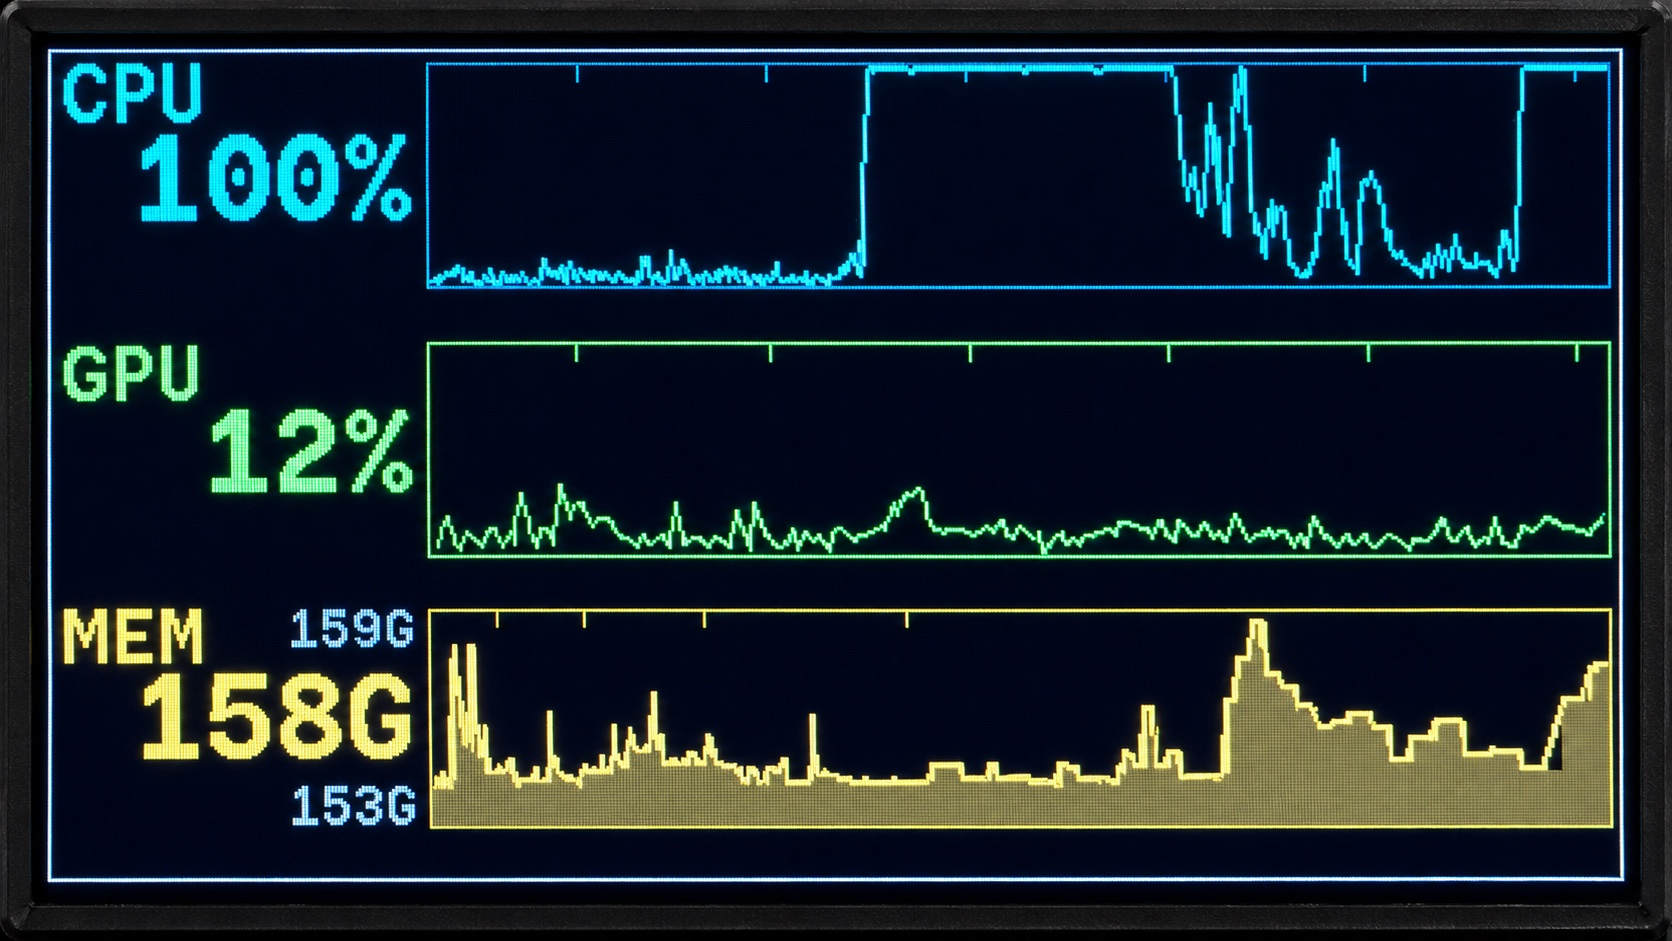
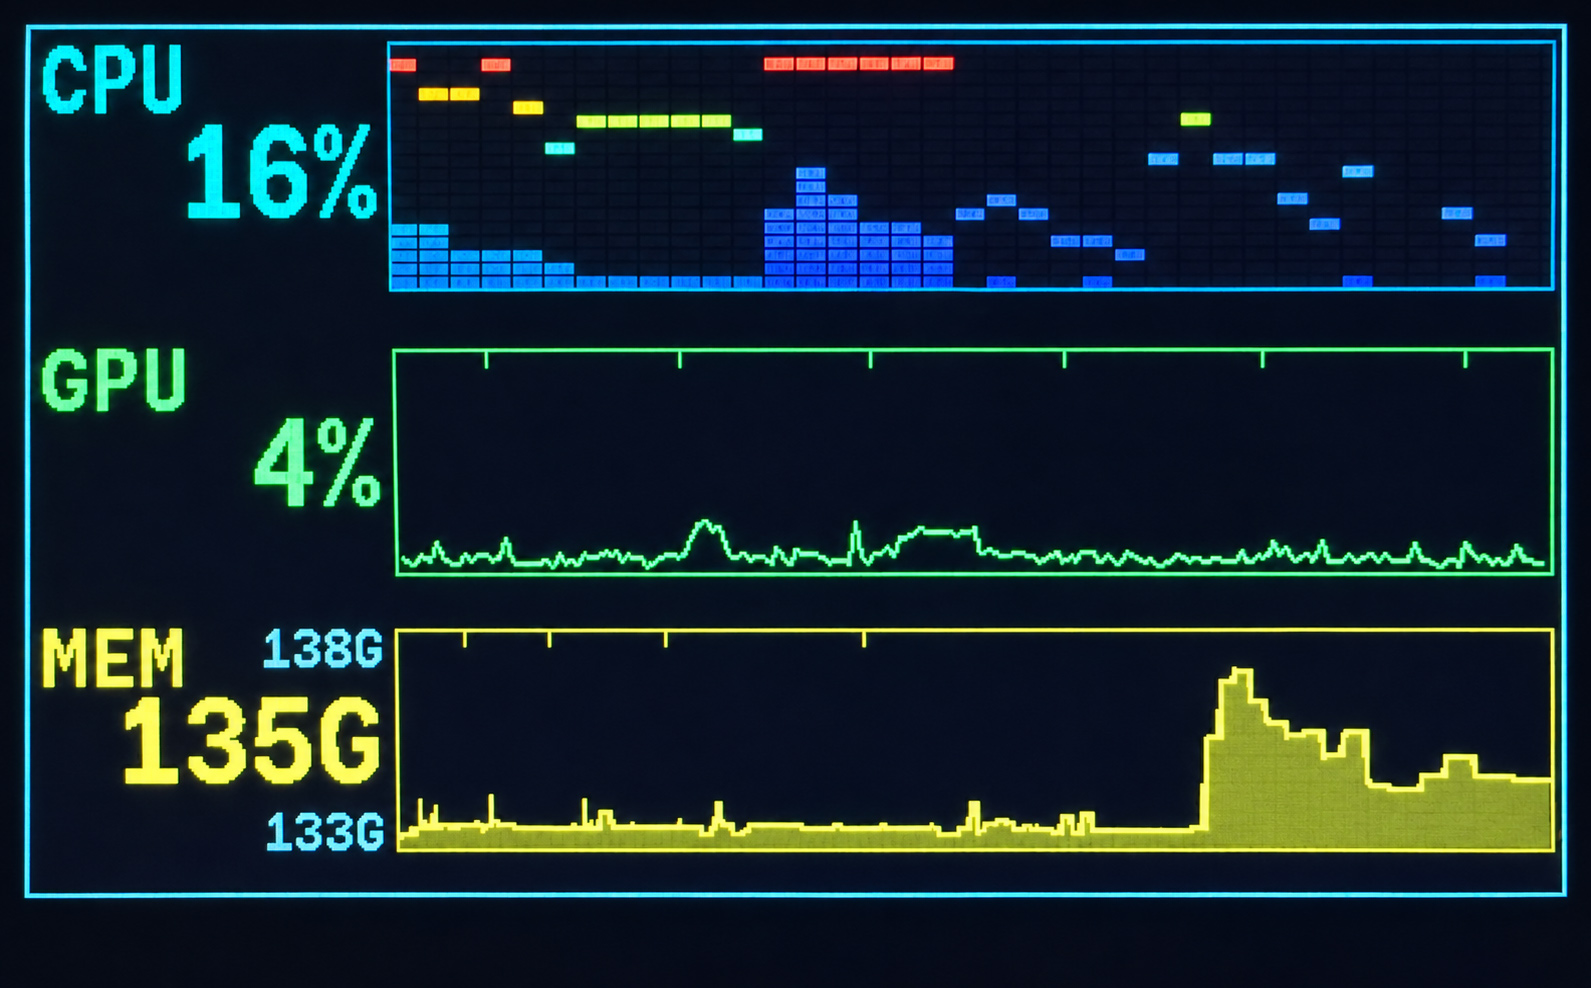
docs: show the per-core CPU bars in the README screenshot
The photo and the CPU text still showed the CPU curve. Since the CPU
row became one LED bar per core with peak hold (ADR-0008), they no
longer matched the display.

diff --git a/README.md b/README.md
@@ -5,13 +5,16 @@ Mac. It is a Raspberry Pi Pico 2 with an RA8875 driver board and a 4.3"
 480×272 TFT, on one USB cable. The firmware is Rust. The main use is to
 monitor the Mac while it runs local LLMs.
 
-![The Tach display on the RA8875 panel: each row shows a label, a big number and a live chart for CPU, GPU and memory](images/tach-ra8875.jpg)
+![The Tach display on the RA8875 panel: the CPU row shows one LED bar for each core with a peak marker above it, and the GPU and memory rows show live charts](images/tach-ra8875.jpg)
 
-Each row has a big number and a chart. The display draws 30 frames each
+Each row has a big number and a graph. The display draws 30 frames each
 second, and the charts travel smoothly at 12 pixels each second:
 
-- The CPU and GPU charts show the last 32 seconds. Their numbers are the mean
-  of the last second.
+- The CPU row shows one bar for each core. Each bar is a stack of LED
+  segments, lit up to the core's level, with a peak marker that holds the
+  highest recent value and then falls. The number is the mean of all cores.
+- The GPU chart shows the last 32 seconds. Its number is the mean of the last
+  second.
 - The MEM chart shows the last 5 minutes on a compressed time axis. Its right
   edge travels at the same speed as the other charts. Its scale zooms to the
   data, and the limits show at the left of the chart. Memory is "Memory Used",
